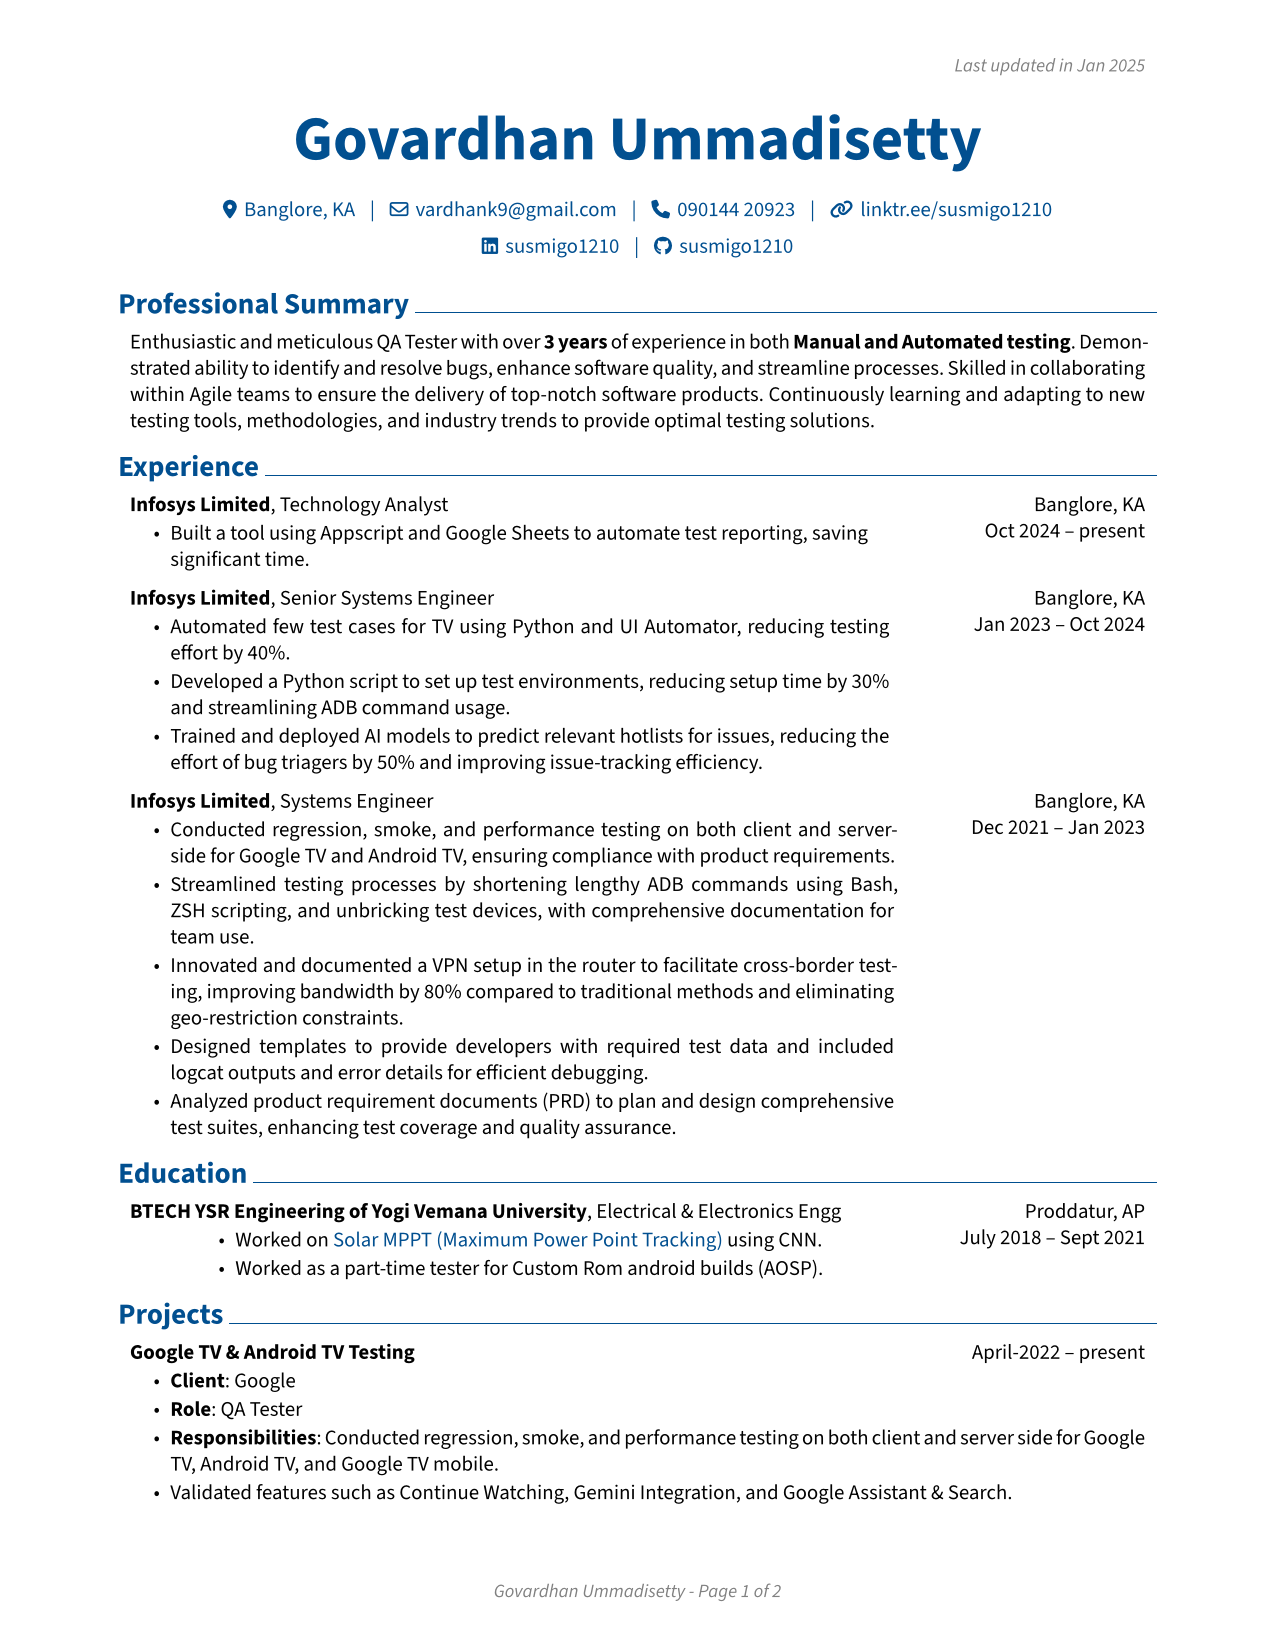
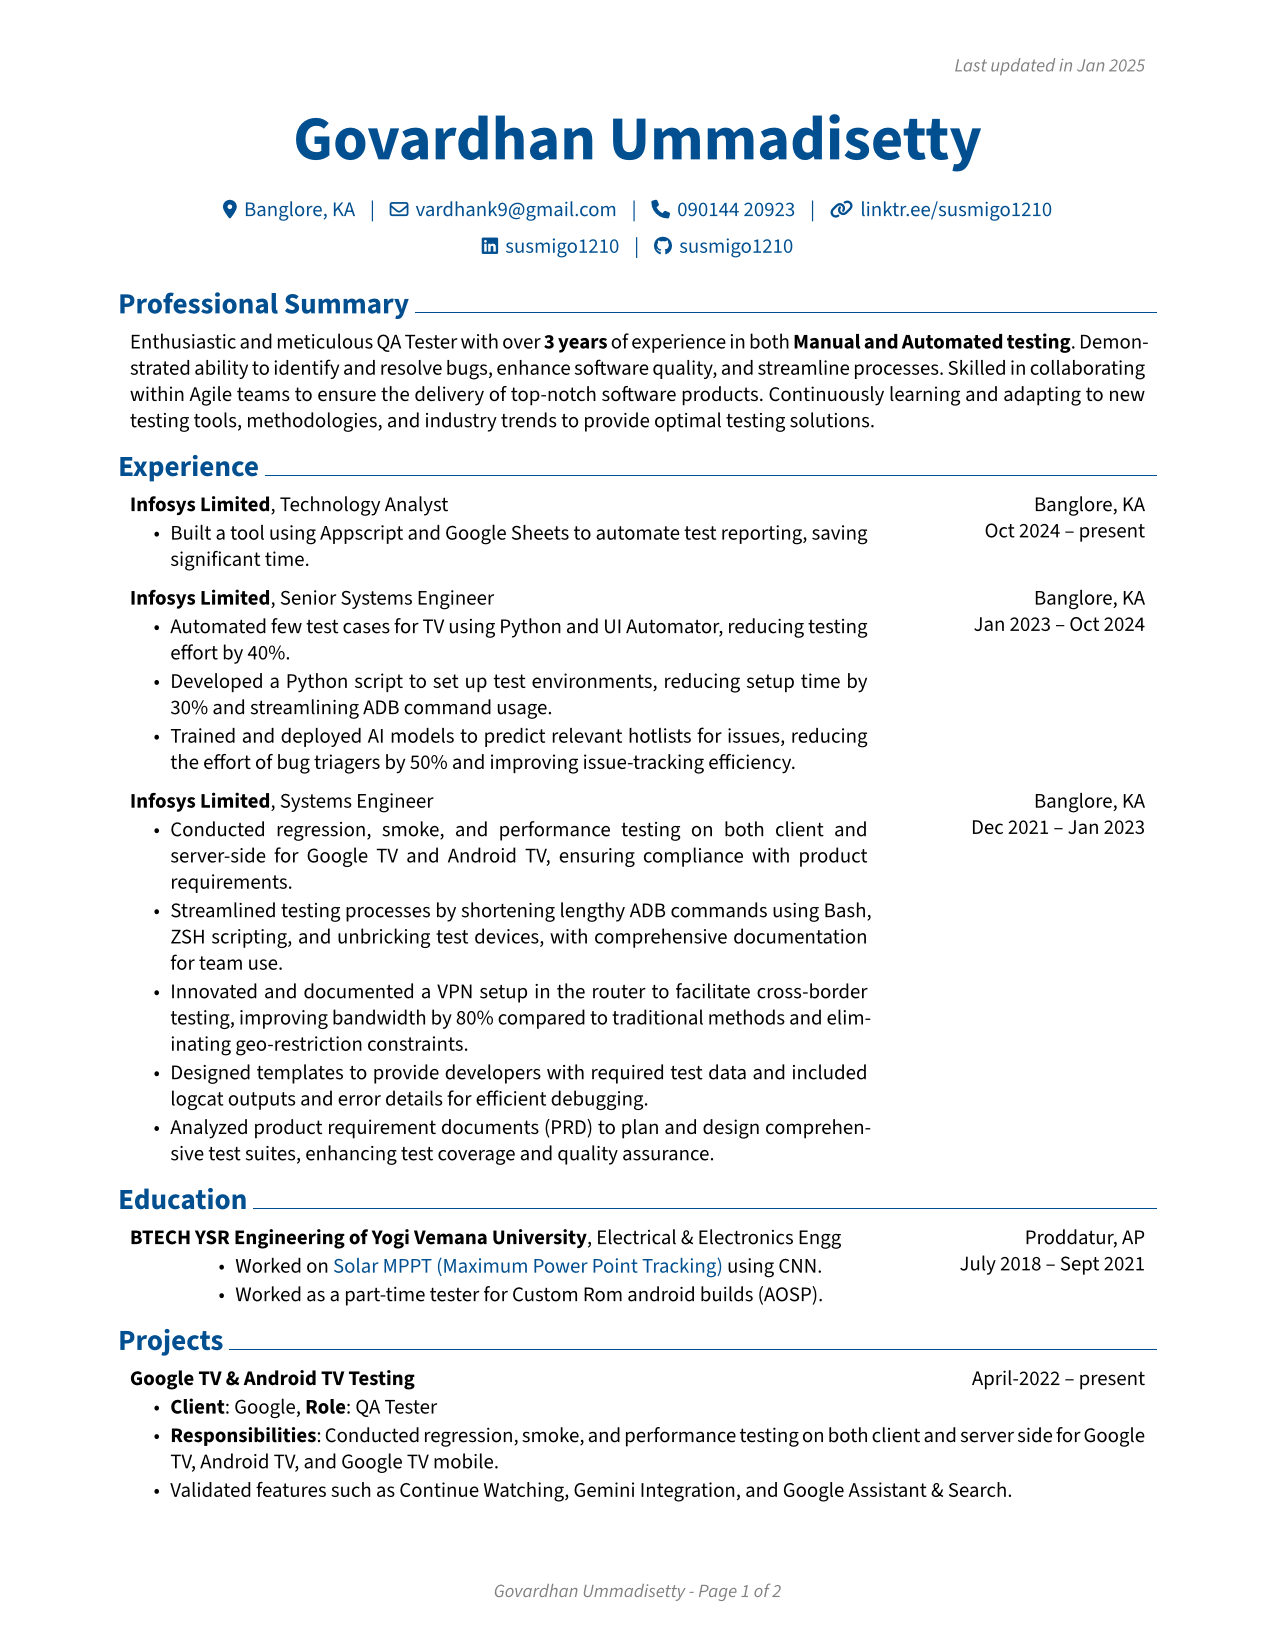
updated punctuations

diff --git a/resume/Govardhan_Ummadisetty_CV.html b/resume/Govardhan_Ummadisetty_CV.html
@@ -87,8 +87,7 @@
         <h2>Google TV &amp; Android TV Testing</h2>
         <ul>
         <li>April-2022 -- present</li>
-        <li><strong>Client</strong>: Google</li>
-        <li><strong>Role</strong>: QA Tester</li>
+        <li><strong>Client</strong>: Google, <strong>Role</strong>: QA Tester</li>
         <li><strong>Responsibilities</strong>: Conducted regression, smoke, and performance testing on both client and server side for Google TV, Android TV, and Google TV mobile.</li>
         <li>Validated features such as Continue Watching, Gemini Integration, and Google Assistant &amp; Search.</li>
         <li><strong>Devices Tested</strong>: Google Chromecast 4K, Chromecast HD, Google TV Streamer, and Panel TVs like Sony, Hisense, and TCL.</li>
@@ -99,8 +98,8 @@
         <li><a href="https://susmigo1210.github.io/gocli_guide/">github.com/susmigo1210/gocli</a></li>
         <li>Built using Python, Which helps the QA Testers in filing bugs and adding comments. Reduced the bug logging time by 60%.</li>
         <li>Automatically collects the test data like bug reports, screenshots, and logcat which are required by the developers for debugging.</li>
-        <li><strong>Supported Form Factors:</strong> Phone, TV, Tablet, and Watch</li>
-        <li><strong>Tools Used:</strong> Python, shell scripting</li>
+        <li><strong>Supported Form Factors:</strong> Phone, TV, Tablet, and Watch.</li>
+        <li><strong>Tools Used:</strong> Python, shell scripting.</li>
         </ul>
         <h2>Bug Report Extractor</h2>
         <ul>
@@ -127,7 +126,7 @@
         </ul>
         <h1>Hobbies &amp; Interests</h1>
         <ul>
-        <li>Building Tools and writing scripts using Python.</li>
+        <li>Building Tools and writing scripts using Python &amp; Javascript.</li>
         <li>Reading Dev articles and tutorials.</li>
         <li>Being an Audiophile.</li>
         <li>Playing Desktop &amp; Playstation games.</li>

diff --git a/resume/Govardhan_Ummadisetty_CV.md b/resume/Govardhan_Ummadisetty_CV.md
@@ -52,8 +52,7 @@ Enthusiastic and meticulous QA Tester with over **3 years** of experience in bot
 ## Google TV & Android TV Testing
 
 - April-2022 -- present
-- **Client**: Google
-- **Role**: QA Tester
+- **Client**: Google, **Role**: QA Tester
 - **Responsibilities**: Conducted regression, smoke, and performance testing on both client and server side for Google TV, Android TV, and Google TV mobile.
 - Validated features such as Continue Watching, Gemini Integration, and Google Assistant & Search.
 - **Devices Tested**: Google Chromecast 4K, Chromecast HD, Google TV Streamer, and Panel TVs like Sony, Hisense, and TCL.
@@ -65,8 +64,8 @@ Enthusiastic and meticulous QA Tester with over **3 years** of experience in bot
 - [github.com/susmigo1210/gocli](https://susmigo1210.github.io/gocli_guide/)
 - Built using Python, Which helps the QA Testers in filing bugs and adding comments. Reduced the bug logging time by 60%.
 - Automatically collects the test data like bug reports, screenshots, and logcat which are required by the developers for debugging.
-- **Supported Form Factors:** Phone, TV, Tablet, and Watch
-- **Tools Used:** Python, shell scripting
+- **Supported Form Factors:** Phone, TV, Tablet, and Watch.
+- **Tools Used:** Python, shell scripting.
 
 ## Bug Report Extractor
 
@@ -90,7 +89,7 @@ Enthusiastic and meticulous QA Tester with over **3 years** of experience in bot
 - [Insta Award 2022 from Infosys](https://media.licdn.com/dms/image/v2/C5622AQGmS4TywZYO7Q/feedshare-shrink_1280/feedshare-shrink_1280/0/1669996323050?e=1737590400&v=beta&t=4lxGJdI1SJRUydLBf9mb0Z3w78_o66TZCvytgSi18MI). For writing the script to set up test environments.
 # Hobbies & Interests
 
-- Building Tools and writing scripts using Python.
+- Building Tools and writing scripts using Python & Javascript.
 - Reading Dev articles and tutorials.
 - Being an Audiophile.
 - Playing Desktop & Playstation games.
